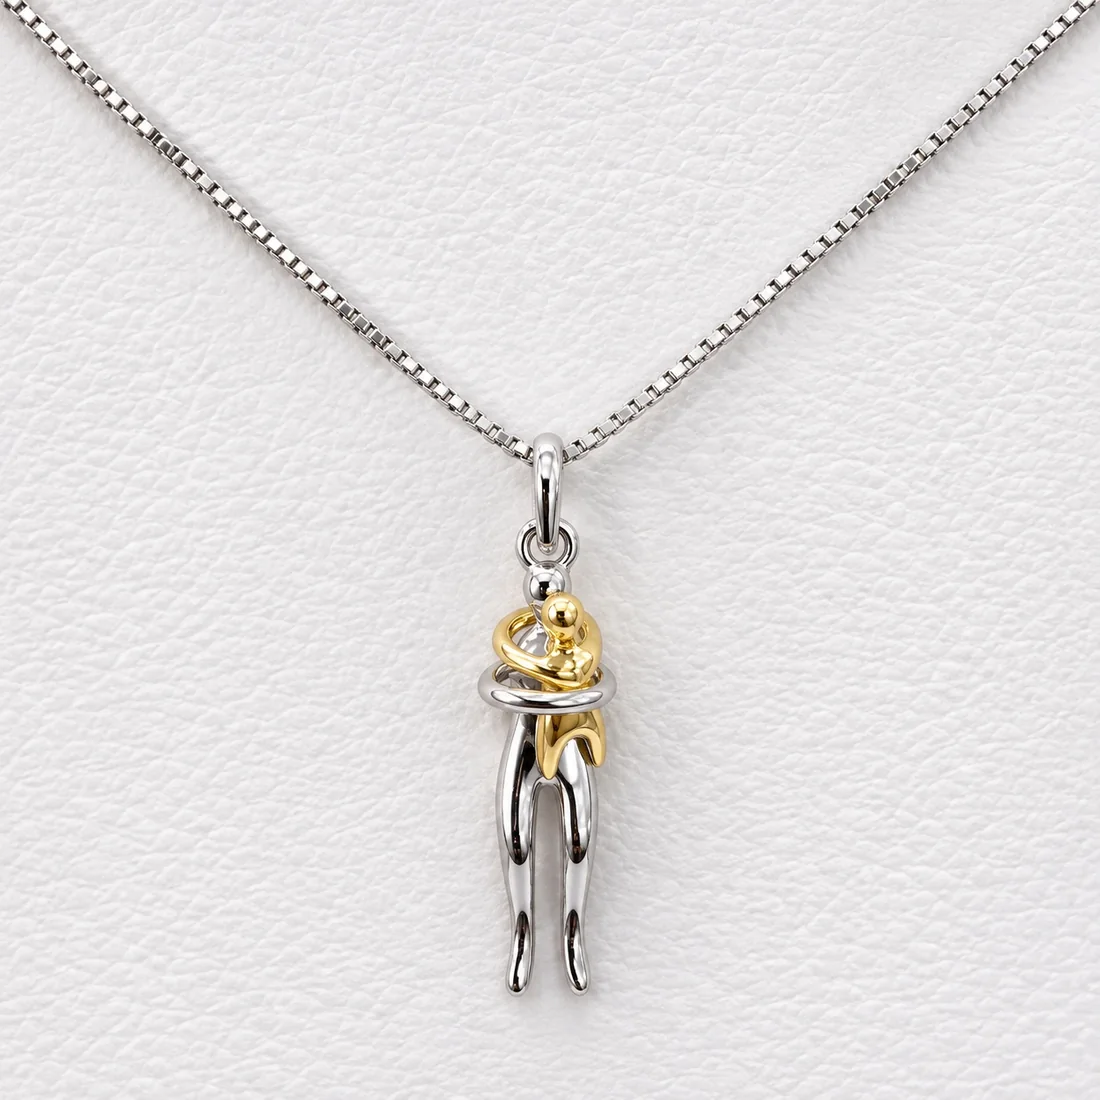
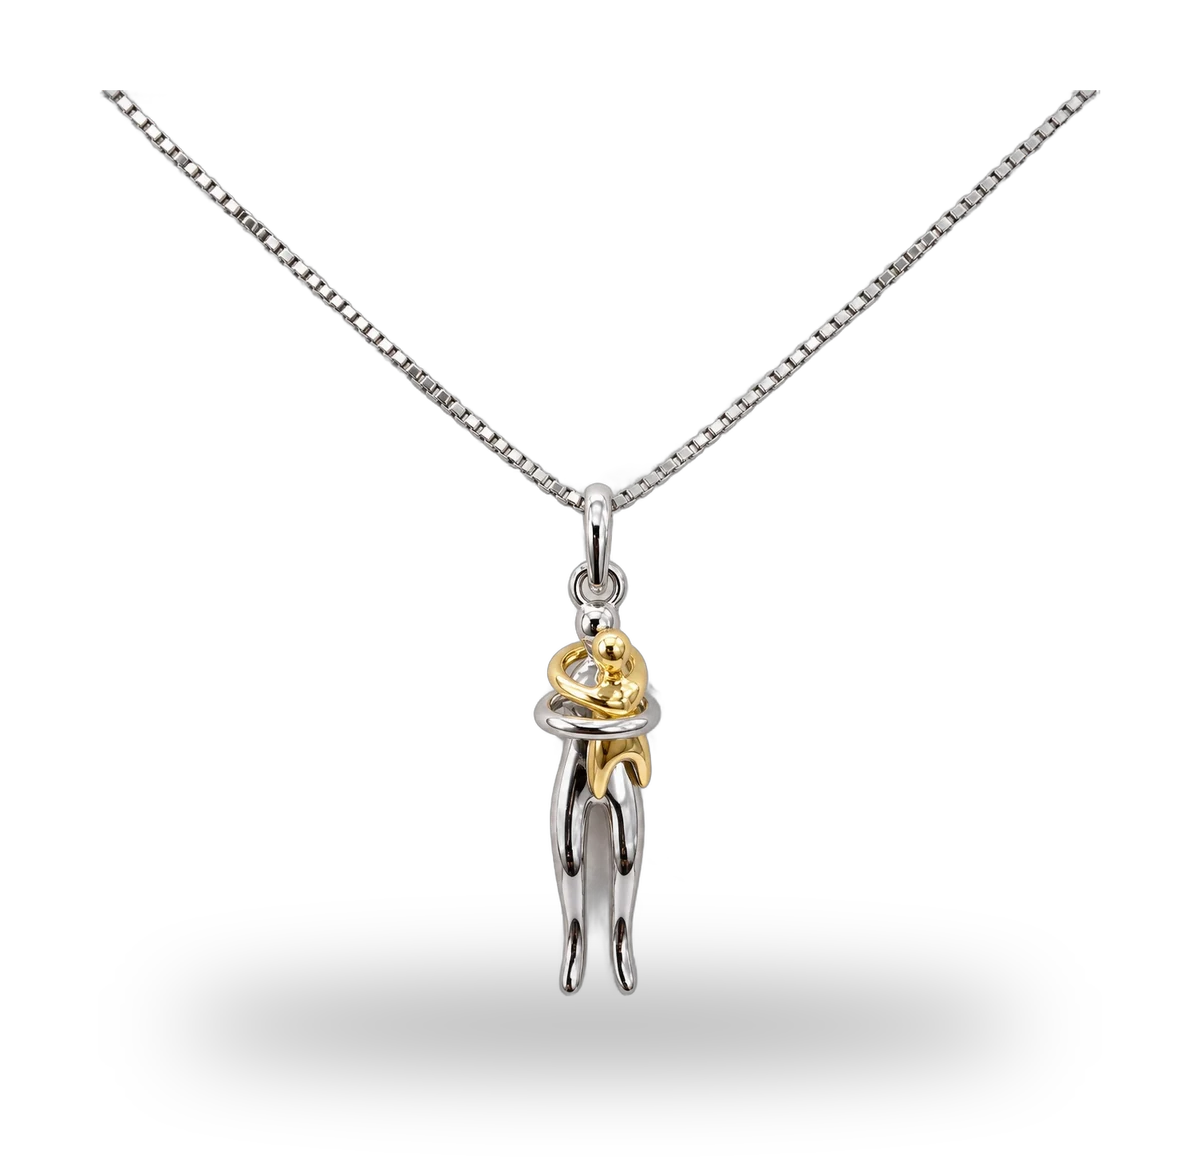
Galería: fotos sin fondo con sombra suave (como los renders); crédito de Claudia Vallejo como texto
Claude-Session: https://claude.ai/code/session_015jQgXxtUnQt7CDozEfjhVp

diff --git a/js/data.js b/js/data.js
@@ -242,12 +242,12 @@ window.GALLERY = (() => {
     { img: "assets/img/gallery/dije-corazon-rubi.webp?v=20261110164743", cat: "religiosa", title: { es: "Dije Corazón", en: "Heart Pendant" } },
     { img: "assets/img/gallery/dije-reja.webp?v=20261110164743", cat: "religiosa", title: { es: "Dije Malla", en: "Mesh Pendant" } },
     { img: "assets/img/gallery/set-piedras-colores.webp?v=20261110164743", cat: "sets", title: { es: "Polished Gold Emerald Jewelry Set", en: "Polished Gold Emerald Jewelry Set" } },
-    { img: "assets/img/gallery/foto-dije-mama-bebe.webp?v=20261113135547", photo: true, cat: "religiosa", title: { es: "Dije Mami y Bebé", en: "Mom & Baby Pendant" } },
-    { img: "assets/img/gallery/foto-aretes-sol.webp?v=20261113135547", photo: true, cat: "aretes", title: { es: "Gold Sunburst Earrings with Amber Gemstones", en: "Gold Sunburst Earrings with Amber Gemstones" } },
+    { img: "assets/img/gallery/foto-dije-mama-bebe.webp?v=20261116184414", cat: "religiosa", title: { es: "Dije Mami y Bebé", en: "Mom & Baby Pendant" } },
+    { img: "assets/img/gallery/foto-aretes-sol.webp?v=20261116184414", cat: "aretes", title: { es: "Gold Sunburst Earrings with Amber Gemstones", en: "Gold Sunburst Earrings with Amber Gemstones" } },
     { img: "assets/img/gallery/anillo-perseo.webp?v=20261116183636", cat: "anillos", title: { es: "Anillo Perseo", en: "Perseus Ring" } },
-    { img: "assets/img/gallery/elly-studs.webp?v=20261116183636", photo: true, cat: "aretes", title: { es: "Elly Studs", en: "Elly Studs" } },
-    { img: "assets/img/gallery/opposites-attract.webp?v=20261116183636", photo: true, cat: "aretes", title: { es: "Opposites Attract", en: "Opposites Attract" } },
-    { img: "assets/img/gallery/unity-studs.webp?v=20261116183636", photo: true, cat: "aretes", title: { es: "Unity Studs", en: "Unity Studs" } },
+    { img: "assets/img/gallery/elly-studs.webp?v=20261116184414", credit: "© Claudia Vallejo · Product image courtesy of Claudia Vallejo", cat: "aretes", title: { es: "Elly Studs", en: "Elly Studs" } },
+    { img: "assets/img/gallery/opposites-attract.webp?v=20261116184414", credit: "© Claudia Vallejo · Product image courtesy of Claudia Vallejo", cat: "aretes", title: { es: "Opposites Attract", en: "Opposites Attract" } },
+    { img: "assets/img/gallery/unity-studs.webp?v=20261116184414", credit: "© Claudia Vallejo · Product image courtesy of Claudia Vallejo", cat: "aretes", title: { es: "Unity Studs", en: "Unity Studs" } },
     { img: "assets/img/gallery/foto-leaf-necklace.webp?v=20261113161801", photo: true, cat: "organico", title: { es: "Leaf Necklace", en: "Leaf Necklace" } },
     { img: "assets/img/gallery/foto-anillo-trisquel.webp?v=20261113135402", photo: true, cat: "anillos", title: { es: "Anillo Trisquel", en: "Triskelion Ring" } },
     { img: "assets/img/gallery/foto-anillo-greca.webp?v=20261113135402", photo: true, cat: "anillos", title: { es: "Anillo de Show", en: "Show Ring" } },

diff --git a/js/app.js b/js/app.js
@@ -217,7 +217,7 @@
     $("#masonry").innerHTML = G.map((g, i) => `
       <button class="tile reveal${g.photo ? " is-photo" : ""}" data-i="${i}" data-cat="${g.cat}">
         <img src="${g.img}" alt="${L(g.title)}" loading="lazy" decoding="async">
-        <figcaption>${L(g.title)} <span>${L(C[g.cat])}</span></figcaption>
+        <figcaption>${L(g.title)} <span>${L(C[g.cat])}</span></figcaption>${g.credit ? `<small class="tile-credit"><span class="cr-long">${g.credit}</span><span class="cr-short">${g.credit.split(" · ")[0]}</span></small>` : ""}
       </button>`).join("");
     $$("#masonry .tile").forEach((b) => b.addEventListener("click", () => openLB(+b.dataset.i)));
     filterGallery();
@@ -252,7 +252,7 @@
   function drawLB() {
     const g = G[lbIndex];
     $("#lb-img").src = g.img; $("#lb-img").alt = L(g.title);
-    $("#lb-title").textContent = L(g.title); $("#lb-cat").textContent = L(C[g.cat]);
+    $("#lb-title").textContent = L(g.title); $("#lb-cat").textContent = L(C[g.cat]) + (g.credit ? " · " + g.credit : "");
   }
   function stepLB(d) { const v = visible(); const k = v.indexOf(lbIndex); lbIndex = v[(k + d + v.length) % v.length]; drawLB(); }
   function closeLB() { $("#lightbox").classList.remove("open"); $("#lightbox").setAttribute("aria-hidden", "true"); document.body.style.overflow = ""; lastFocus && lastFocus.focus(); }

diff --git a/project.html b/project.html
@@ -9,7 +9,7 @@
   <link rel="preload" href="fonts/instrument-serif-latin-400-normal.woff2" as="font" type="font/woff2" crossorigin>
   <link rel="preload" href="fonts/inter-latin-wght-normal.woff2" as="font" type="font/woff2" crossorigin>
   <script>try{var t=localStorage.getItem("mp-theme");if(t)document.documentElement.dataset.theme=t}catch(e){}</script>
-  <link rel="stylesheet" href="css/style.css?v=20261116183642">
+  <link rel="stylesheet" href="css/style.css?v=20261116184439">
   <script>self.ModelViewerElement = { meshoptDecoderLocation: "js/vendor/meshopt_decoder.js" };</script>
   <script type="module" src="js/vendor/model-viewer.min.js"></script>
 </head>
@@ -17,8 +17,8 @@
   <header class="nav" id="site-nav"></header>
   <main id="project"></main>
   <footer id="site-footer"></footer>
-  <script src="js/i18n.js?v=20261116183642"></script>
-  <script src="js/data.js?v=20261116183642"></script>
-  <script src="js/app.js?v=20261116183642"></script>
+  <script src="js/i18n.js?v=20261116184439"></script>
+  <script src="js/data.js?v=20261116184439"></script>
+  <script src="js/app.js?v=20261116184439"></script>
 </body>
 </html>

diff --git a/index.html b/index.html
@@ -14,7 +14,7 @@
   <link rel="preload" href="fonts/instrument-serif-latin-400-normal.woff2" as="font" type="font/woff2" crossorigin>
   <link rel="preload" href="fonts/inter-latin-wght-normal.woff2" as="font" type="font/woff2" crossorigin>
   <script>try{var t=localStorage.getItem("mp-theme");if(t)document.documentElement.dataset.theme=t}catch(e){}</script>
-  <link rel="stylesheet" href="css/style.css?v=20261116183642">
+  <link rel="stylesheet" href="css/style.css?v=20261116184439">
   <script>self.ModelViewerElement = { meshoptDecoderLocation: "js/vendor/meshopt_decoder.js" };</script>
   <script type="module" src="js/vendor/model-viewer.min.js"></script>
 </head>
@@ -124,8 +124,8 @@
     </div>
   </div>
 
-  <script src="js/i18n.js?v=20261116183642"></script>
-  <script src="js/data.js?v=20261116183642"></script>
-  <script src="js/app.js?v=20261116183642"></script>
+  <script src="js/i18n.js?v=20261116184439"></script>
+  <script src="js/data.js?v=20261116184439"></script>
+  <script src="js/app.js?v=20261116184439"></script>
 </body>
 </html>

diff --git a/css/style.css b/css/style.css
@@ -573,3 +573,9 @@ figcaption.cap { padding: 12px 16px; font-size: 13px; color: var(--muted); borde
 .contact-card .ic svg { width: 26px; height: 26px; }
 @media (max-width: 600px) { .contact-cards { gap: 12px; } .contact-card { width: 76px; height: 76px; border-radius: 20px; } .contact-card .ic { width: 46px; height: 46px; } }
 .tile.is-photo img { object-fit: cover; padding: 0; }
+.tile-credit { position: absolute; left: 0; right: 0; bottom: 10px; text-align: center; font-size: 10.5px; color: var(--muted); padding: 0 10px; pointer-events: none; transition: opacity .3s; }
+.tile:hover .tile-credit { opacity: 0; }
+@media (max-width: 600px) { .tile-credit { font-size: 8.5px; bottom: 6px; } }
+.tile-credit { white-space: nowrap; font-size: 9.5px; letter-spacing: .01em; }
+.tile-credit .cr-short { display: none; }
+@media (max-width: 1100px) { .tile-credit .cr-long { display: none; } .tile-credit .cr-short { display: inline; } }

diff --git a/cv.html b/cv.html
@@ -58,8 +58,8 @@
 <body>
   <div class="bar"><a href="index.html" id="back"></a><a href="#" id="toggle"></a><a class="primary" id="dl" href="#"></a></div>
   <div class="sheet" id="sheet"></div>
-  <script src="js/data.js?v=20261116183642"></script>
-  <script src="js/cv-data.js?v=20261116183642"></script>
+  <script src="js/data.js?v=20261116184439"></script>
+  <script src="js/cv-data.js?v=20261116184439"></script>
   <script>
     const qs = new URLSearchParams(location.search);
     const lang = qs.get("lang") === "en" ? "en" : "es";
